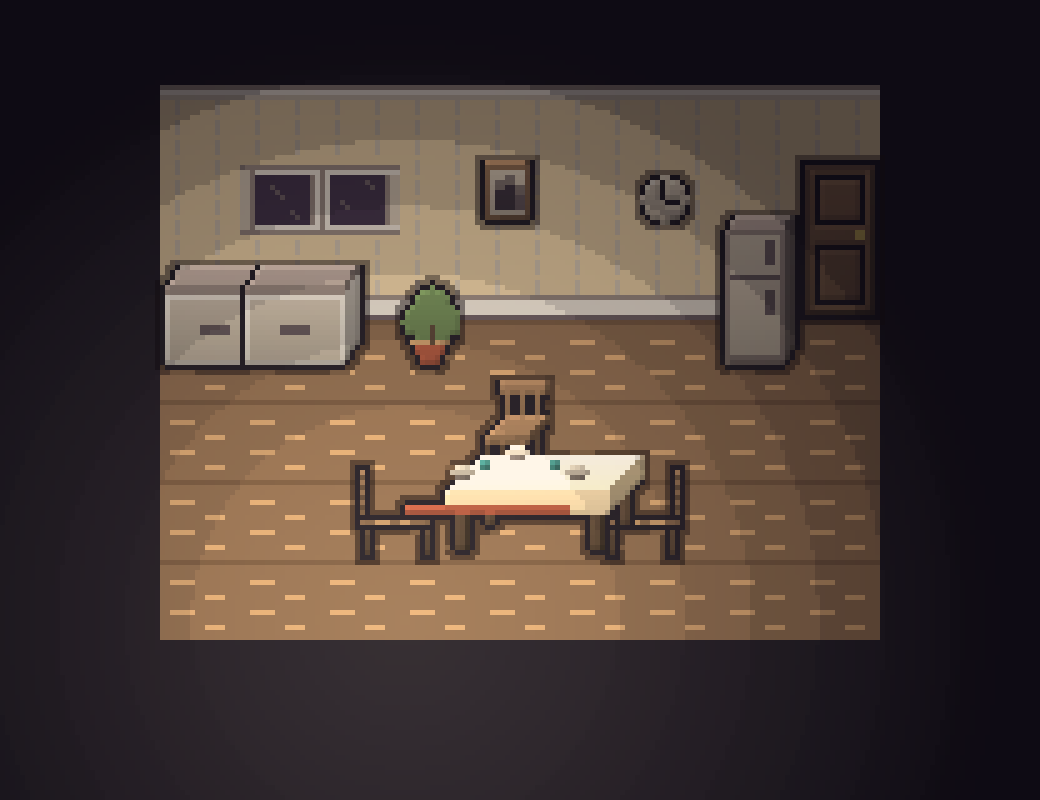
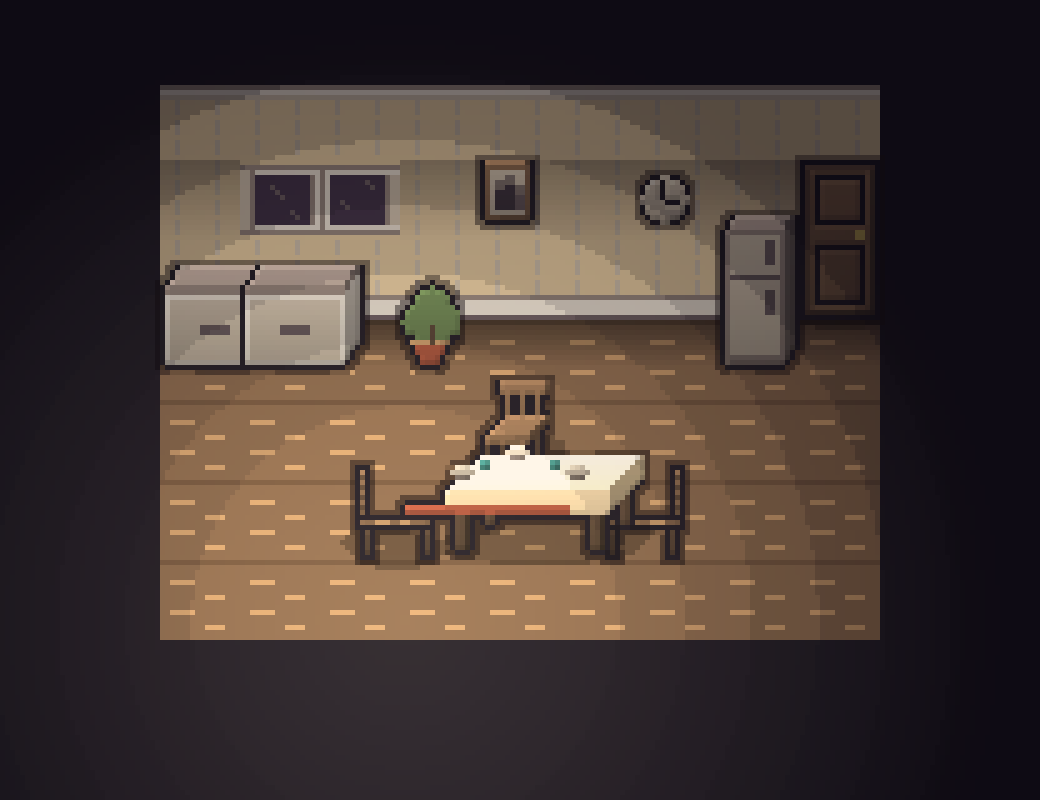
Map 2 child room (Korean apartment, small, real only); register kr tiles in renderer
Claude-Session: https://claude.ai/code/session_01FPZSaKiVNU2zED737yZX4w

diff --git a/tools/render_maps.py b/tools/render_maps.py
@@ -148,8 +148,8 @@ OUTER_OUTLINE = True   # 사물 바깥 1점 외곽선(조명 뒤에 그림). 끄
 RUGS = {'rug', 'rug_big', 'rug_small', 'rug_living', 'runner', 'blanket'}   # 바닥 타일 밖에는 그리지 않는다
 FLAT = {'rug', 'blanket', 'slipper', 'frame_down', 'puddle', 'bottles', 'shoes'}
 WALL_MOUNTED = {'clock', 'clock_bird', 'bulb', 'drawing', 'shelf', 'coats', 'coats_dream', 'moon', 'window_eye'}
-WALLISH = {'wall_base_cozy', 'wall_base', 'brick', 'brick_lit', 'facade', 'facade_window', 'balcony_body'}
-FLOORISH = {'floor_cozy', 'floor_wood', 'floor_kitchen', 'carpet', 'pavement', 'puddle', 'balcony_floor'}
+WALLISH = {'wall_base_kr', 'wall_base_cozy', 'wall_base', 'brick', 'brick_lit', 'facade', 'facade_window', 'balcony_body'}
+FLOORISH = {'floor_kr', 'floor_cozy', 'floor_wood', 'floor_kitchen', 'carpet', 'pavement', 'puddle', 'balcony_floor'}
 _bevel_cache = {}
 
 def bevel(key, sp):
@@ -251,7 +251,7 @@ def draw_map(m, lib, lights, path, dream):
             sil.paste(255, (x * T, top), sp.getchannel('A').point(lambda v: 255 if v else 0))
         if base and name in FLOORISH:
             floor_mask.paste(255, (x * T, y * T, x * T + T, y * T + T))
-        if base and name in ('wall', 'wall_cozy'):
+        if base and name in ('wall', 'wall_cozy', 'wall_kr'):
             img.alpha_composite(GRAD_WALL, (x * T, y * T))
         if base and name in FLOORISH and y > 0 and m['legend'][rows[y - 1][x]][0] in WALLISH:
             img.alpha_composite(GRAD_AO, (x * T, y * T))
